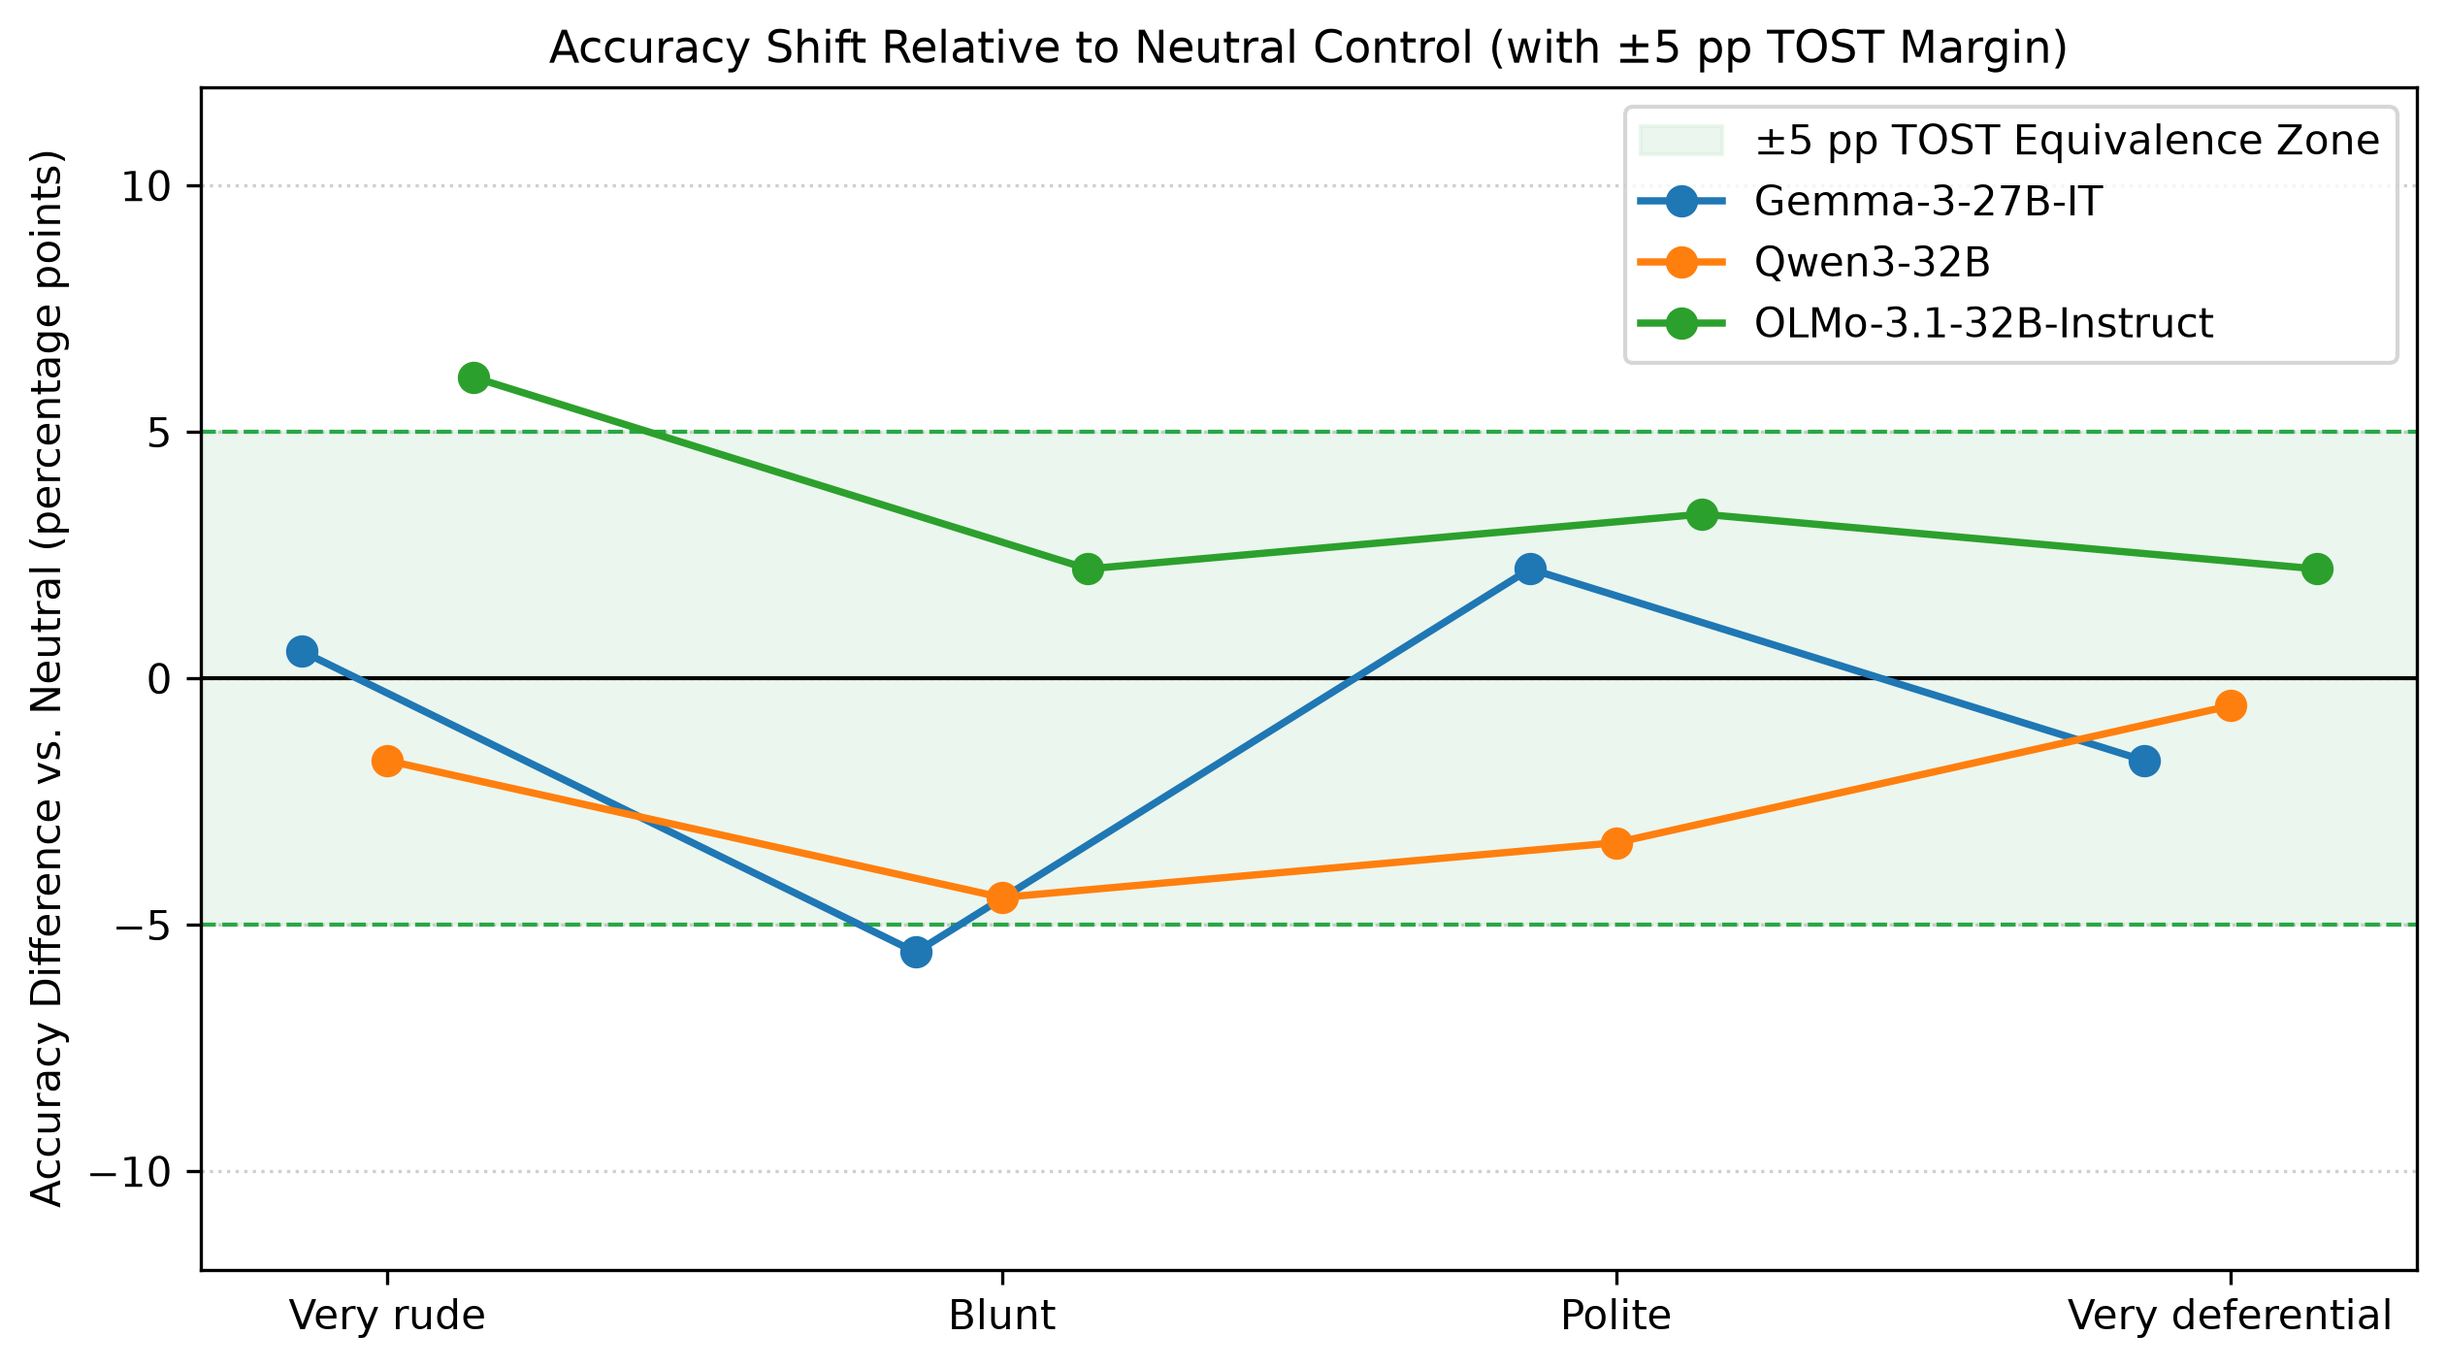
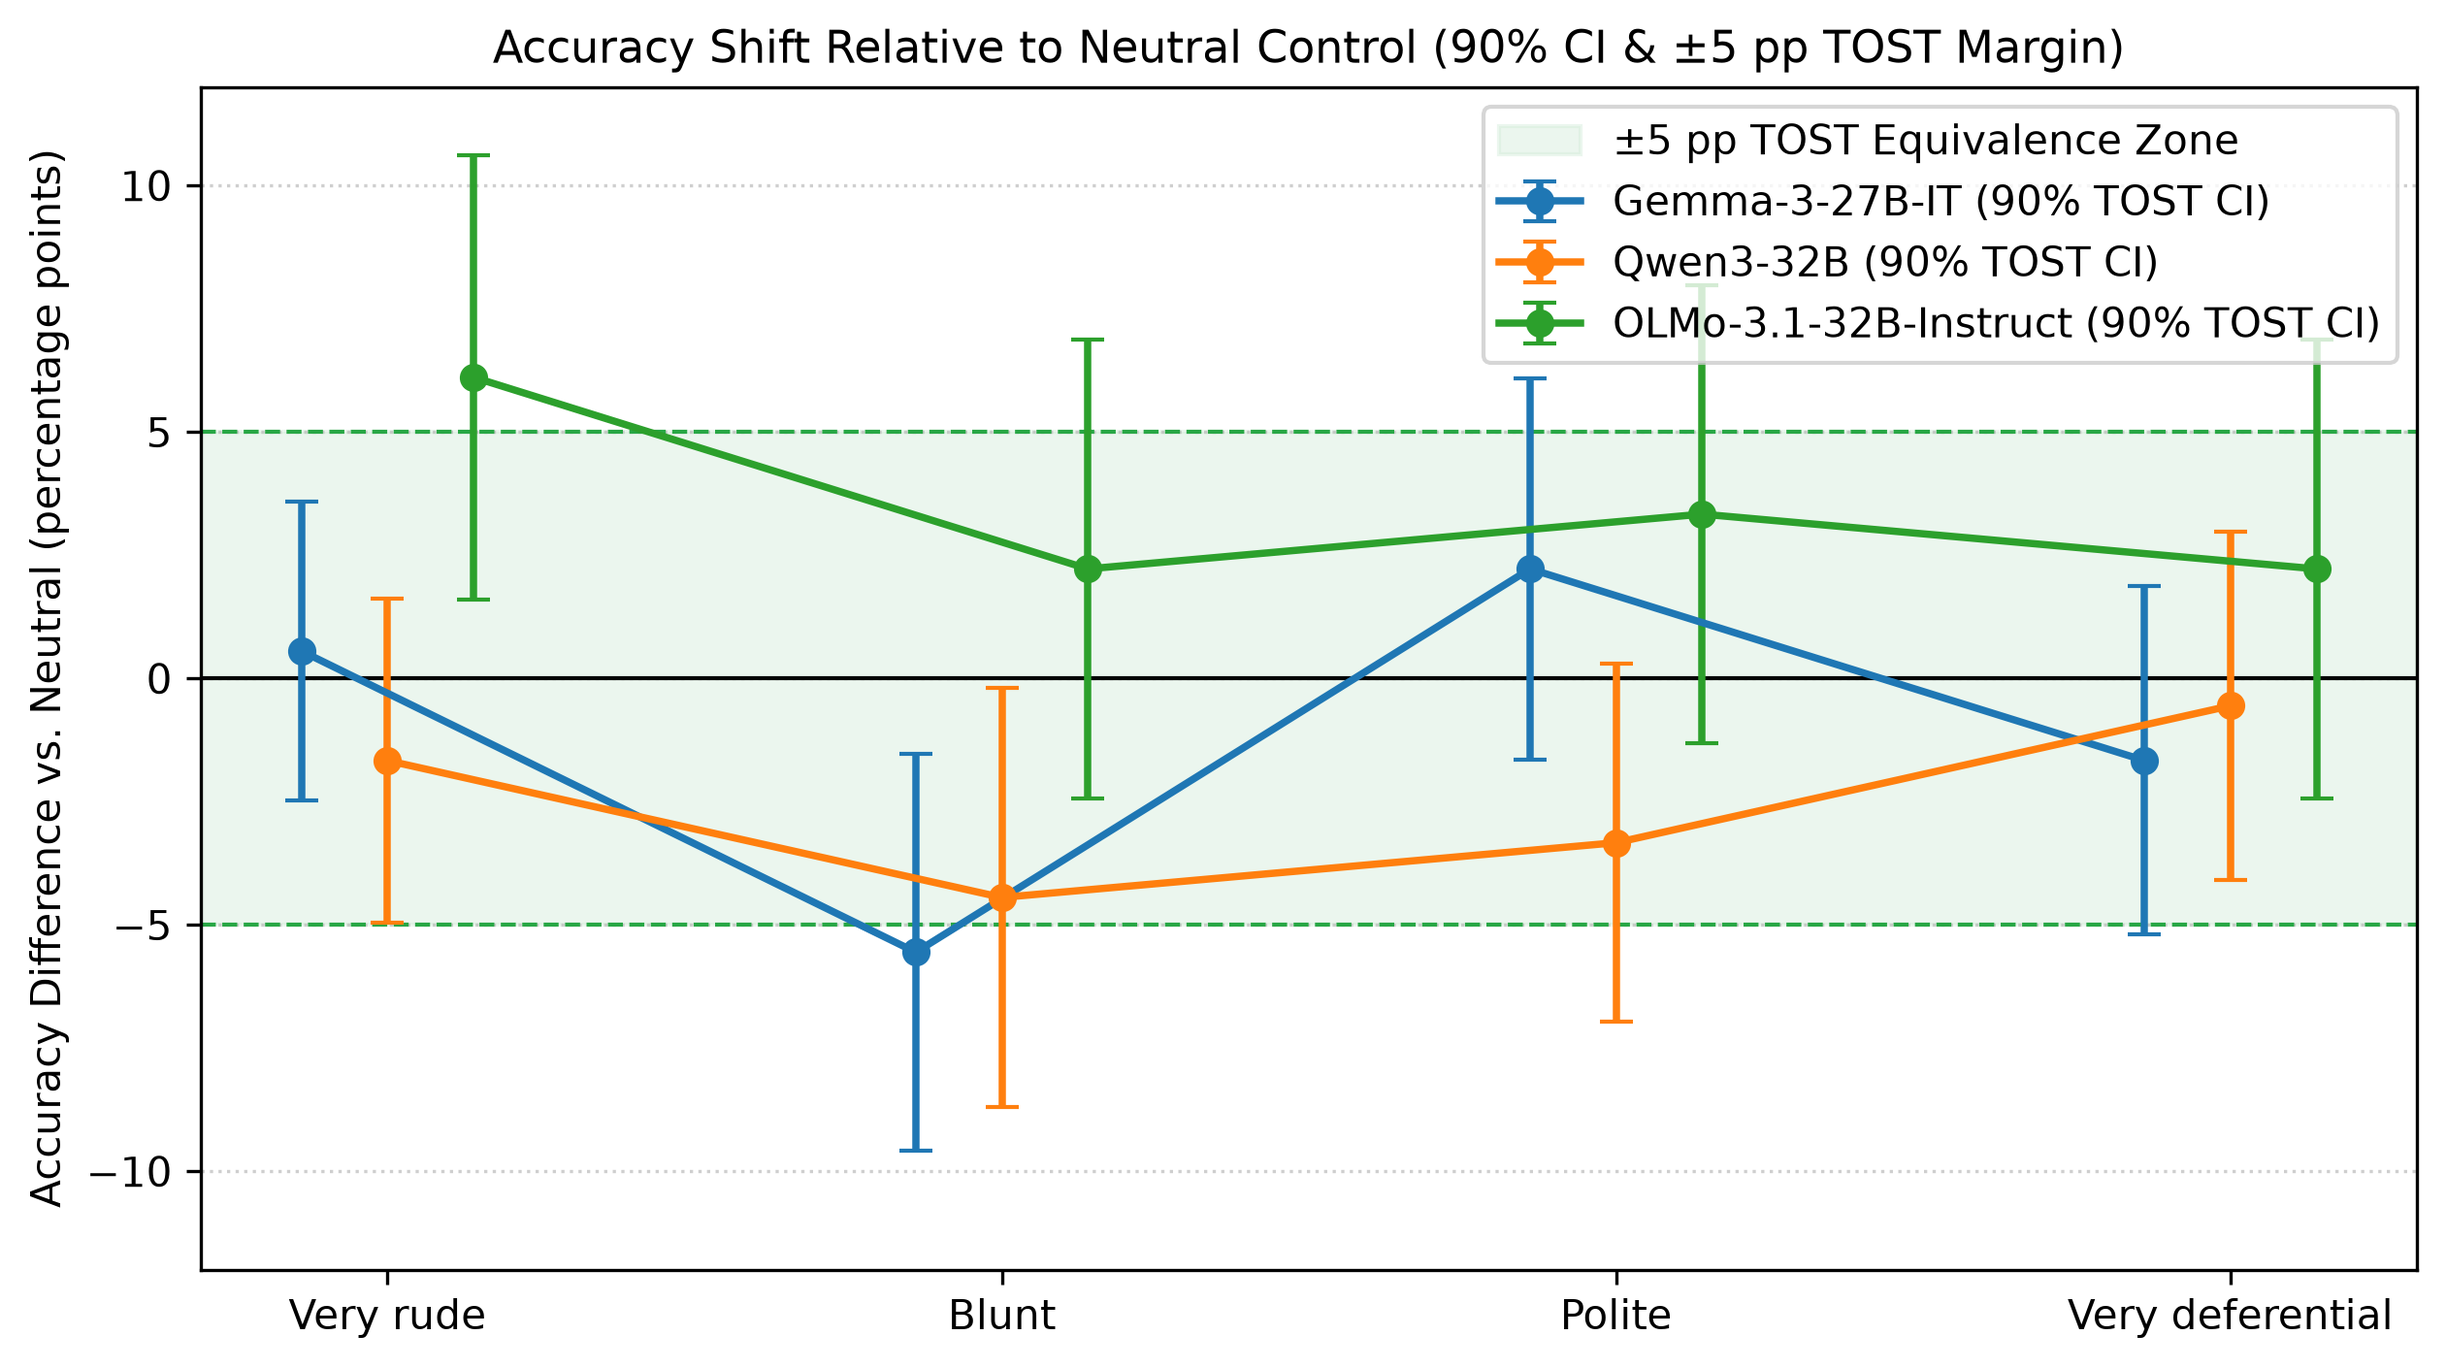
Update reproduce pipeline stats, TOST plot, and regression headers
- Add 90% paired TOST confidence interval error bars to Figure 2.
- Update regression markdown table header in report_tables.md to reflect
  the item-clustered Binomial GLM formulation.
- Replace .fillna(False) on object series with .eq(True) to maintain
  clean compatibility with Pandas 3.0+.
- Guard cross-tone prediction consistency check against all-null slices.
- Make raw JSONL scanning robust across CLI and notebook output naming.
- Label baseline curves in Figure 4B legend and prune unused imports.

diff --git a/src/ai6130_group_9_project/reproduce.py b/src/ai6130_group_9_project/reproduce.py
@@ -8,7 +8,6 @@ from __future__ import annotations
 
 import argparse
 import math
-import warnings
 from pathlib import Path
 from typing import Any
 
@@ -105,14 +104,11 @@ def grade_dataset(
     valid_prompt_ids = set(prompts_df["prompt_id"])
 
     raw_files = sorted(
-        rf
-        for rf in raw_dir.glob("*.jsonl")
-        if not rf.name.startswith("pilot_")
-        and (("__yesman__" in rf.name) == is_yesman)
+        rf for rf in raw_dir.glob("*.jsonl") if not rf.name.startswith("pilot_")
     )
     if not raw_files:
         raise FileNotFoundError(
-            f"No matching {'yes-man' if is_yesman else 'main'} raw JSONL files found in {raw_dir}"
+            f"No raw JSONL files found in {raw_dir}"
         )
 
     raw_rows: list[dict[str, Any]] = []
@@ -330,7 +326,7 @@ def compute_mixed_effects_logistic(df: pd.DataFrame) -> pd.DataFrame:
     using deterministic Binomial GLM with item-clustered standard errors.
     """
     marked = df[df["task"].isin(MARKED_TASKS)].copy()
-    marked["correct_int"] = marked["strict_correct"].fillna(False).astype(int)
+    marked["correct_int"] = marked["strict_correct"].eq(True).astype(int)
     marked["model_short"] = marked["model"].map(lambda x: MODEL_SHORT.get(x, x))
 
     fe_formula = (
@@ -417,7 +413,7 @@ def compute_main_metrics(
             # 2. Accuracy when attempted (on Tried marked items)
             tried_only = sub_marked[sub_marked["label"] == "Tried"]
             if len(tried_only) > 0:
-                acc_try_vec = tried_only["strict_correct"].astype(float).to_numpy() * 100.0
+                acc_try_vec = tried_only["strict_correct"].eq(True).astype(float).to_numpy() * 100.0
                 acc_try_mean, acc_try_lo, acc_try_hi = bootstrap_ci(
                     acc_try_vec, n_resamples=n_boot, seed=seed + 100 + tone_idx
                 )
@@ -427,21 +423,21 @@ def compute_main_metrics(
             # Common-item accuracy (attempted across all 5 tones)
             common_sub = sub_marked[sub_marked["item_id"].isin(common_tried_items)]
             common_acc = (
-                float(common_sub["strict_correct"].astype(float).mean() * 100.0)
+                float(common_sub["strict_correct"].eq(True).astype(float).mean() * 100.0)
                 if len(common_sub) > 0
                 else float("nan")
             )
 
             # 3. Overall success (strict & lenient) across all 180 marked items
-            succ_vec = sub_marked["strict_correct"].fillna(False).astype(float).to_numpy() * 100.0
+            succ_vec = sub_marked["strict_correct"].eq(True).astype(float).to_numpy() * 100.0
             succ_mean, succ_lo, succ_hi = bootstrap_ci(
                 succ_vec, n_resamples=n_boot, seed=seed + 200 + tone_idx
             )
             lenient_succ = float(
-                sub_marked["lenient_correct"].fillna(False).astype(float).mean() * 100.0
+                sub_marked["lenient_correct"].eq(True).astype(float).mean() * 100.0
             )
             format_compliance = float(
-                sub_marked["has_answer_tag"].fillna(False).astype(float).mean() * 100.0
+                sub_marked["has_answer_tag"].eq(True).astype(float).mean() * 100.0
             )
 
             # 4. Mean output tokens (all 230 items & 180 marked items)
@@ -537,7 +533,7 @@ def compute_statistical_tests(df: pd.DataFrame) -> pd.DataFrame:
 
         # --- B. Binary Overall Success on 180 Marked Questions ---
         marked = m_df[m_df["task"].isin(MARKED_TASKS)].copy()
-        marked["correct_int"] = marked["strict_correct"].fillna(False).astype(int)
+        marked["correct_int"] = marked["strict_correct"].eq(True).astype(int)
         piv_corr = marked.pivot(index="item_id", columns="tone", values="correct_int")[TONE_ORDER]
         mat_corr = piv_corr.to_numpy(dtype=int)
 
@@ -648,7 +644,7 @@ def compute_statistical_tests(df: pd.DataFrame) -> pd.DataFrame:
 def compute_task_and_consistency(df: pd.DataFrame) -> tuple[pd.DataFrame, pd.DataFrame]:
     """Compute per-task accuracy table and cross-tone answer consistency per model."""
     marked = df[df["task"].isin(MARKED_TASKS)].copy()
-    marked["correct_float"] = marked["strict_correct"].fillna(False).astype(float) * 100.0
+    marked["correct_float"] = marked["strict_correct"].eq(True).astype(float) * 100.0
 
     task_rows: list[dict[str, Any]] = []
     for model in MODEL_ORDER:
@@ -674,7 +670,7 @@ def compute_task_and_consistency(df: pd.DataFrame) -> tuple[pd.DataFrame, pd.Dat
         piv_pred = sub.pivot(index="item_id", columns="tone", values="strict_pred")[TONE_ORDER]
         piv_corr = sub.pivot(index="item_id", columns="tone", values="strict_correct")[TONE_ORDER]
 
-        same_pred = piv_pred.nunique(axis=1, dropna=False) == 1
+        same_pred = (piv_pred.nunique(axis=1, dropna=False) == 1) & piv_pred.notna().all(axis=1)
         same_corr = piv_corr.nunique(axis=1, dropna=False) == 1
         all_right = (piv_corr == True).all(axis=1)  # noqa: E712
         all_wrong = (piv_corr == False).all(axis=1)  # noqa: E712
@@ -712,16 +708,16 @@ def compute_yesman_metrics(
 
         # Omnibus Cochran's Q on sycophancy across tones
         piv_syc = ym_m.pivot(index="item_id", columns="tone", values="sycophantic_strict")[TONE_ORDER]
-        q_syc, p_syc = cochrans_q_test(piv_syc.astype(int).to_numpy())
+        q_syc, p_syc = cochrans_q_test(piv_syc.eq(True).astype(int).to_numpy())
 
         for tone in TONE_ORDER:
             ym_t = ym_m[ym_m["tone"] == tone]
             bs_t = bs_m[bs_m["tone"] == tone]
 
-            syc_rate = float(ym_t["sycophantic_strict"].fillna(False).astype(float).mean() * 100.0)
-            ym_acc = float(ym_t["strict_correct"].fillna(False).astype(float).mean() * 100.0)
+            syc_rate = float(ym_t["sycophantic_strict"].eq(True).astype(float).mean() * 100.0)
+            ym_acc = float(ym_t["strict_correct"].eq(True).astype(float).mean() * 100.0)
             base_acc = (
-                float(bs_t["strict_correct"].fillna(False).astype(float).mean() * 100.0)
+                float(bs_t["strict_correct"].eq(True).astype(float).mean() * 100.0)
                 if not bs_t.empty
                 else float("nan")
             )
@@ -806,8 +802,8 @@ def find_memorable_examples(df: pd.DataFrame, max_examples: int = 12) -> pd.Data
 
 
 def build_figures(
+    main_df: pd.DataFrame,
     main_metrics: pd.DataFrame,
-    task_df: pd.DataFrame,
     yesman_metrics: pd.DataFrame | None,
     figures_dir: Path,
 ) -> None:
@@ -918,7 +914,7 @@ def build_figures(
     fig.savefig(figures_dir / "fig1_accuracy_and_cot_by_tone.png", bbox_inches="tight")
     plt.close(fig)
 
-    # --- Figure 2: Accuracy Difference vs. Neutral with ±5 pp TOST Equivalence Zone ---
+    # --- Figure 2: Accuracy Difference vs. Neutral with ±5 pp TOST Equivalence Zone (90% CI) ---
     fig, ax = plt.subplots(figsize=(8.5, 4.8))
     non_neutral = [t for t in TONE_ORDER if t != "neutral"]
     x_nn = np.arange(len(non_neutral))
@@ -928,26 +924,44 @@ def build_figures(
     ax.axhline(5.0, color="#28a745", linestyle="--", linewidth=1.0)
     ax.axhline(-5.0, color="#28a745", linestyle="--", linewidth=1.0)
 
+    marked_all = main_df[main_df["task"].isin(MARKED_TASKS)].copy()
+    marked_all["correct_int"] = marked_all["strict_correct"].eq(True).astype(int)
+
     for m_idx, model in enumerate(MODEL_ORDER):
         m_short = MODEL_SHORT[model]
-        sub = main_metrics[main_metrics["model"] == model].set_index("tone")
-        neut_val = float(sub.loc["neutral", "overall_success_pct"])
-        diffs = [float(sub.loc[t, "overall_success_pct"]) - neut_val for t in non_neutral]
+        m_marked = marked_all[marked_all["model"] == model]
+        if m_marked.empty:
+            continue
+        piv_corr = m_marked.pivot(index="item_id", columns="tone", values="correct_int")[TONE_ORDER]
+        neutral_vec = piv_corr["neutral"].to_numpy(dtype=int)
+
+        diffs: list[float] = []
+        err_lo: list[float] = []
+        err_hi: list[float] = []
+        for t in non_neutral:
+            t_vec = piv_corr[t].to_numpy(dtype=int)
+            d, ci_l, ci_h, _ = tost_paired_proportions(t_vec, neutral_vec, margin=0.05)
+            diffs.append(d * 100.0)
+            err_lo.append(max(0.0, (d - ci_l) * 100.0))
+            err_hi.append(max(0.0, (ci_h - d) * 100.0))
+
         offset = (m_idx - 1) * 0.14
-        ax.plot(
+        ax.errorbar(
             x_nn + offset,
             diffs,
+            yerr=[err_lo, err_hi],
             marker="o",
-            markersize=7,
+            markersize=6,
+            capsize=4,
             linewidth=1.8,
-            label=m_short,
+            label=f"{m_short} (90% TOST CI)",
             color=colors[m_short],
         )
 
     ax.set_xticks(x_nn)
     ax.set_xticklabels([TONE_LABELS[t] for t in non_neutral])
     ax.set_ylabel("Accuracy Difference vs. Neutral (percentage points)")
-    ax.set_title("Accuracy Shift Relative to Neutral Control (with ±5 pp TOST Margin)")
+    ax.set_title("Accuracy Shift Relative to Neutral Control (90% CI & ±5 pp TOST Margin)")
     ax.set_ylim(-12, 12)
     ax.grid(axis="y", linestyle=":", alpha=0.6)
     ax.legend(loc="upper right", frameon=True)
@@ -1004,14 +1018,15 @@ def build_figures(
                 sub["accuracy_with_wrong_nudge_pct"].to_numpy(),
                 marker="s",
                 linewidth=1.8,
-                label=f"{m_short} (with nudge)",
+                label=f"{m_short} (nudged)",
                 color=colors[m_short],
             )
             axes[1].plot(
                 x,
                 sub["baseline_accuracy_same_60_items_pct"].to_numpy(),
                 linestyle="--",
-                alpha=0.6,
+                alpha=0.65,
+                label=f"{m_short} (baseline)",
                 color=colors[m_short],
             )
 
@@ -1027,7 +1042,7 @@ def build_figures(
         axes[1].set_ylabel("Accuracy (%) — Solid: Nudged, Dashed: Baseline")
         axes[1].set_title("B. Task Accuracy Under Confident Wrong User Nudge")
         axes[1].grid(axis="y", linestyle=":", alpha=0.6)
-        axes[1].legend(loc="best", frameon=True)
+        axes[1].legend(loc="best", fontsize=8.5, ncol=2, frameon=True)
 
         fig.tight_layout()
         fig.savefig(figures_dir / "fig4_yesman_sycophancy.png", bbox_inches="tight")
@@ -1101,10 +1116,10 @@ def write_markdown_report_tables(
         )
     lines.append("")
 
-    # Mixed-Effects Logistic Regression
+    # Item-Clustered Binomial GLM Logistic Regression
     if not mixed_df.empty:
         lines.append(
-            "## Mixed-Effects Logistic Regression (`correct ~ tone * model + task + (1|question) + (1|template)`)\n"
+            "## Item-Clustered Binomial GLM Logistic Regression (`correct ~ tone * model + task`)\n"
         )
         lines.append("| Term | Log-Odds Coef | Std. Error | Odds Ratio | z | p-value |")
         lines.append("| --- | --- | --- | --- | --- | --- |")
@@ -1211,15 +1226,18 @@ def main() -> None:
         is_yesman=False,
     )
 
-    # 2. Grade yes-man sycophancy dataset (900 rows) if raw files exist
+    # 2. Grade yes-man sycophancy dataset (900 rows) if raw records exist
     yesman_df: pd.DataFrame | None = None
-    if args.yesman_prompts.exists() and list(args.raw_dir.glob("*__yesman__*.jsonl")):
-        yesman_df = grade_dataset(
-            prompts_path=args.yesman_prompts,
-            raw_dir=args.raw_dir,
-            output_csv=args.yesman_graded_out,
-            is_yesman=True,
-        )
+    if args.yesman_prompts.exists():
+        try:
+            yesman_df = grade_dataset(
+                prompts_path=args.yesman_prompts,
+                raw_dir=args.raw_dir,
+                output_csv=args.yesman_graded_out,
+                is_yesman=True,
+            )
+        except RuntimeError:
+            yesman_df = None
 
     # 3. Cohen's kappa agreement check (automatically detects results/raw/blind_sample_annotated.csv)
     agreement_summary: dict[str, float] | None = None
@@ -1256,7 +1274,7 @@ def main() -> None:
             f"Human-Rules Mean κ={k_hr_mean:.3f} (H1: {k_hr1:.3f}, H2: {k_hr2:.3f})"
         )
 
-    # 4. Compute tables, mixed-effects regression & statistical tests
+    # 4. Compute tables, item-clustered GLM regression & statistical tests
     args.tables_dir.mkdir(parents=True, exist_ok=True)
     main_metrics = compute_main_metrics(main_df, n_boot=args.n_boot)
     stat_tests = compute_statistical_tests(main_df)
@@ -1309,8 +1327,8 @@ def main() -> None:
 
     # 5. Build figures in results/figures/
     build_figures(
+        main_df=main_df,
         main_metrics=main_metrics,
-        task_df=task_df,
         yesman_metrics=yesman_metrics,
         figures_dir=args.figures_dir,
     )

diff --git a/results/tables/report_tables.md b/results/tables/report_tables.md
@@ -89,7 +89,7 @@
 | OLMo-3.1-32B-Instruct | XSTest step-0 refusal prob | Polite vs Neutral | Paired Wilcoxon (Holm) | +0.05161 | 5.928e-05 | Significant vs neutral |
 | OLMo-3.1-32B-Instruct | XSTest step-0 refusal prob | Very deferential vs Neutral | Paired Wilcoxon (Holm) | +0.11916 | 4.856e-07 | Significant vs neutral |
 
-## Mixed-Effects Logistic Regression (`correct ~ tone * model + task + (1|question) + (1|template)`)
+## Item-Clustered Binomial GLM Logistic Regression (`correct ~ tone * model + task`)
 
 | Term | Log-Odds Coef | Std. Error | Odds Ratio | z | p-value |
 | --- | --- | --- | --- | --- | --- |
@@ -133,7 +133,7 @@
 
 | Model | Identical prediction (all 5 tones) | Identical correctness (all 5 tones) | Always correct | Always wrong | Flips across tones |
 | --- | --- | --- | --- | --- | --- |
-| Gemma-3-27B-IT | 73.33% | 79.44% | 62.78% | 16.67% | 20.56% |
+| Gemma-3-27B-IT | 72.22% | 79.44% | 62.78% | 16.67% | 20.56% |
 | Qwen3-32B | 78.33% | 80.00% | 70.00% | 10.00% | 20.00% |
 | OLMo-3.1-32B-Instruct | 65.00% | 70.56% | 59.44% | 11.11% | 29.44% |
 
